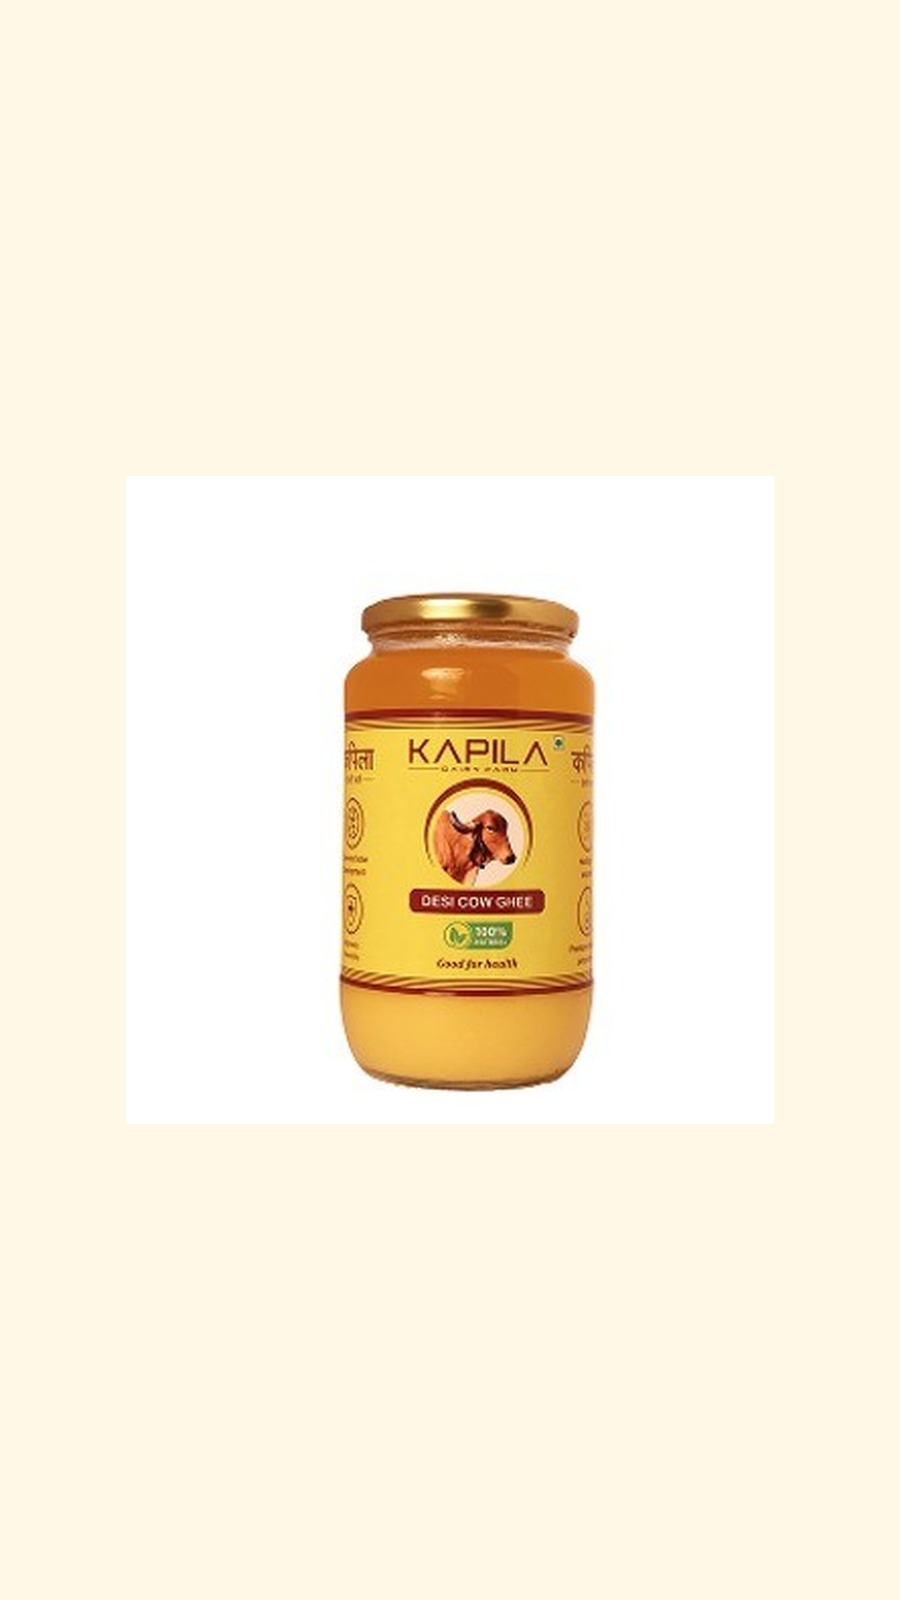
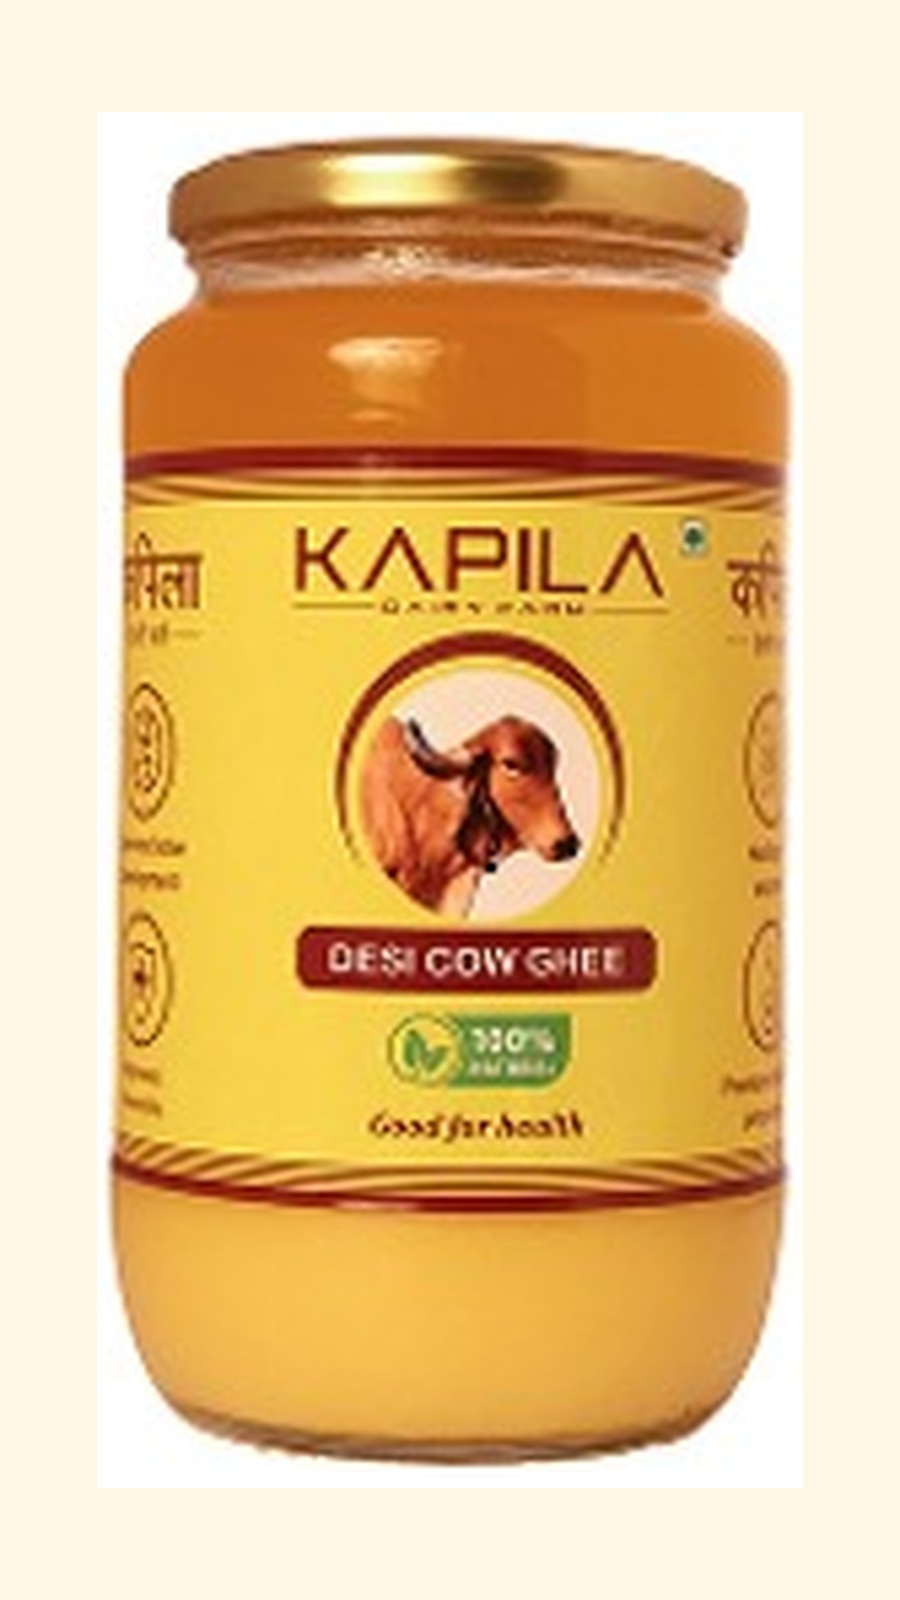
Normalize product photos and simplify homepage sections
Auto-crop product images to their bounding box and re-center on a shared
cream canvas so the jar and tins render at a consistent visual scale with
no leftover background-box artifacts. Also remove the Our Story, Location,
and Final CTA sections from the homepage per feedback that it had too many
competing CTAs.

diff --git a/prisma/seed.ts b/prisma/seed.ts
@@ -49,12 +49,12 @@ async function main() {
   }
 
   // ---------- Media ----------
-  // Padded to the same 900x1600 canvas as the tin photos (cream-filled, matching the
-  // page background) so all three gallery images render at a consistent visual size —
-  // the original 320x320 crop looked tiny/inconsistent next to the tall tin photos.
+  // Auto-cropped to each product's bounding box and re-centered on a shared 900x1600
+  // cream canvas (matching the page background) so all three gallery images render at a
+  // consistent visual scale with no leftover background-box artifacts.
   const jarMedia = await db.media.upsert({
     where: { id: "media-ghee-jar" },
-    update: { width: 900, height: 1600, fileSize: 59069 },
+    update: { width: 900, height: 1600, fileSize: 160373 },
     create: {
       id: "media-ghee-jar",
       url: "/images/product/ghee-jar.jpeg",
@@ -62,13 +62,13 @@ async function main() {
       width: 900,
       height: 1600,
       fileType: "image/jpeg",
-      fileSize: 59069,
+      fileSize: 160373,
     },
   });
 
   const tin5kgMedia = await db.media.upsert({
     where: { id: "media-ghee-tin-5kg" },
-    update: {},
+    update: { width: 900, height: 1600, fileSize: 196066 },
     create: {
       id: "media-ghee-tin-5kg",
       url: "/images/product/ghee-tin-5kg.jpeg",
@@ -76,13 +76,13 @@ async function main() {
       width: 900,
       height: 1600,
       fileType: "image/jpeg",
-      fileSize: 72905,
+      fileSize: 196066,
     },
   });
 
   const tin15kgMedia = await db.media.upsert({
     where: { id: "media-ghee-tin-15kg" },
-    update: {},
+    update: { width: 900, height: 1600, fileSize: 217085 },
     create: {
       id: "media-ghee-tin-15kg",
       url: "/images/product/ghee-tin-15kg.jpeg",
@@ -90,7 +90,7 @@ async function main() {
       width: 900,
       height: 1600,
       fileType: "image/jpeg",
-      fileSize: 137692,
+      fileSize: 217085,
     },
   });
 

diff --git a/src/app/(public)/page.tsx b/src/app/(public)/page.tsx
@@ -6,11 +6,8 @@ import { ProductShowcase } from "@/components/public/ProductShowcase";
 import { WhyKapila } from "@/components/public/WhyKapila";
 import { ProcessTimeline } from "@/components/public/ProcessTimeline";
 import { QualitySection } from "@/components/public/QualitySection";
-import { StorySection } from "@/components/public/StorySection";
 import { EverydayUse } from "@/components/public/EverydayUse";
 import { GheeBenefits } from "@/components/public/GheeBenefits";
-import { LocationSection } from "@/components/public/LocationSection";
-import { FinalCTA } from "@/components/public/FinalCTA";
 import { buildLocalBusinessJsonLd } from "@/lib/structured-data";
 
 const siteUrl = process.env.SITE_URL ?? "https://www.kapiladairyfarm.com";
@@ -49,11 +46,8 @@ export default async function HomePage() {
       <WhyKapila sections={homeSections} />
       <ProcessTimeline steps={processSections} variant="teaser" />
       <QualitySection homeSections={homeSections} hasDocuments={hasQualityDocuments} />
-      <StorySection sections={homeSections} />
       <EverydayUse sections={homeSections} />
       <GheeBenefits sections={homeSections} />
-      <LocationSection settings={settings} />
-      <FinalCTA settings={settings} sections={homeSections} />
     </>
   );
 }
